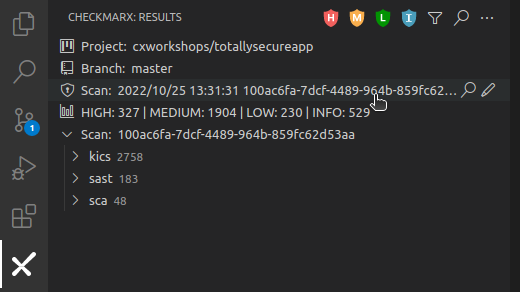
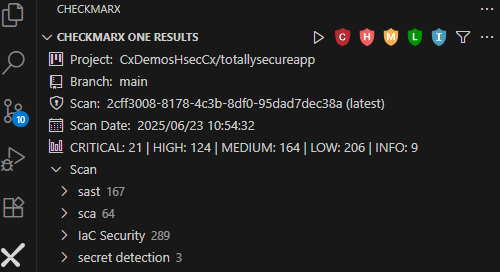
Lab-2 Refactored

diff --git a/lab1_setup/index.md b/lab1_setup/index.md
@@ -48,68 +48,79 @@ Once VS Code is installed, we need to install the Checkmarx plugin. The Visual S
 
 ## Configure the Checkmarx Plugin
 
-1. In the VS Code console, click on the Checkmarx extension icon and then click on the Open settings button.  
+1. In the VS Code console, click on the Checkmarx extension icon and then click on the Open settings button.  
    The Checkmarx Settings form opens.  
    ![Configure Checkmarx Plugin](./assets/images/cx_plugin_config.png "Configure Checkmarx Plugin")
 
+2. First you will need to authenticate the plugin by clicking the **Authentication** link in box 1.  
+   Once you click that, choose your method below to see the corresponding settings:
 
-    <!-- force break between list items -->
-    {% raw %}
-    <script>
-    function updateAuthImage() {
-        const sel = document.getElementById("authSelect").value;
-        document.getElementById("authImage").src =
-        "{{ \"/lab1_setup/assets/images/\" | relative_url }}" + sel + ".png";
-
-        document.getElementById("oauthText").style.display =
-        sel === "plugin_oauth_option" ? "block" : "none";
-        document.getElementById("apiKeyText").style.display =
-        sel === "plugin_api_auth_option" ? "block" : "none";
-    }
-    </script>
-    {% endraw %}
-    <!-- force break between list items -->
+   {: .note }
+   The preference for this workshop would be to use the Oauth authentication method. 
 
 
-2. First you will need to authenticate the plugin by clicking the **Authentication** link in box 1.  
-   Once you click that, choose your method below to see the corresponding settings screenshot:
+   <style>
+   .auth-tabs {
+     margin: 20px 0;
+   }
+   .auth-tabs input[type="radio"] {
+     display: none;
+   }
+   .auth-tabs label {
+     display: inline-block;
+     padding: 10px 20px;
+     background: #f0f0f0;
+     border: 1px solid #ddd;
+     cursor: pointer;
+     margin-right: 5px;
+   }
+   .auth-tabs label:hover {
+     background: #e0e0e0;
+   }
+   .auth-tabs input[type="radio"]:checked + label {
+     background: #007acc;
+     color: white;
+   }
+   .auth-content {
+     display: none;
+     padding: 20px;
+     border: 1px solid #ddd;
+     margin-top: 10px;
+     clear: both;
+   }
+   .auth-tabs #oauth-tab:checked ~ .oauth-content,
+   .auth-tabs #apikey-tab:checked ~ .apikey-content {
+     display: block;
+   }
+   </style>
 
-   <div>
-     <strong>Authentication Method:</strong><br>
-     <select id="authSelect" onchange="updateAuthImage()">
-       <option value="plugin_oauth_option">OAuth</option>
-       <option value="plugin_api_auth_option">API Key</option>
-     </select>
-     <br><br>
-
-     <img
-       id="authImage"
-       src="{{ "/lab1_setup/assets/images/plugin_oauth_option.png" | relative_url }}"
-       alt="Auth Method"
-       width="600"
-     />
-
-     <!-- Paragraphs shown conditionally -->
-     <div id="oauthText">
+   <div class="auth-tabs">
+     <input type="radio" id="oauth-tab" name="auth-method" checked>
+     <label for="oauth-tab">OAuth Authentication</label>
+     
+     <input type="radio" id="apikey-tab" name="auth-method">
+     <label for="apikey-tab">API Key Authentication</label>
+     
+     <div class="auth-content oauth-content">
+       <img src="./assets/images/plugin_oauth_option.png" alt="OAuth Authentication" width="600">
        <p>
-         The base URL for this lab will be: <code>https://us.ast.checkmarx.net</code>.  
+         The base URL for this lab will be: <code>https://us.ast.checkmarx.net</code>.<br>
          The Tenant Name will be delivered in the lab.
        </p>
      </div>
 
-     <div id="apiKeyText" style="display: none;">
+     <div class="auth-content apikey-content">
+       <img src="./assets/images/plugin_api_auth_option.png" alt="API Key Authentication" width="600">
        <p>
-         To use the API Key option, the instructions can be found at  
-         <a href="https://docs.checkmarx.com/en/34965-188712-creating-api-keys.html" target="_blank">
-           Generating a Checkmarx API Key
-         </a>.
+         To use the API Key option, the instructions can be found at 
+         <a href="https://docs.checkmarx.com/en/34965-188712-creating-api-keys.html" target="_blank">Generating a Checkmarx API Key</a>.
        </p>
      </div>
    </div>
 
-    
+  
 
-3. In the Checkmarx AST plugin section, enter the following details:
+3. Now that you have authenticated, in the Checkmarx AST plugin section, enter the following details:
 
 
     |         Item                          |          Value                |
@@ -121,7 +132,10 @@ Once VS Code is installed, we need to install the Checkmarx plugin. The Visual S
     | Checkmarx Security Champion: Model  | __Optional:__ Choose a supported model                 |
     | Checkmarx Security Champion: Key    | __Optional:__ Utilize a GPT API-KEY from your organization               |
 
-4. Once entered, the Checkmarx plugin will authenticate to the Checkmarx One tenant
+    {: .note }
+    The AI Features may be disabled for your specific workshop due to organizational policy. 
+
+4. Once entered, you have configured the plugin
 
 5. Close the Plugin Settings Screen
 
@@ -132,7 +146,7 @@ Once VS Code is installed, we need to install the Checkmarx plugin. The Visual S
     ![Select Project](./assets/images/cx_select_project.png "Select the Project")
 
     {: .note }
-    > Since Checkmarx plugin v2.0.11 release, only the AST/One API Key is required to connect the plugin to a Checkmarx One tenant.  If you see a 404 error within VSCode when attempting to connect to a project, it may be because environment variables are overriding the Uri/tenant names from the API key (cx_base_auth_uri, cx_base_uri, cx_tenant).  These variables are set if you've ever connected to Checkmarx One via the CLI. This can be fixed by deleting the checkmarxcli.yaml file if it exists on your machine.
+    > Since Checkmarx plugin v2.34.0 release, only the AST/One API Key or Ouath is required to connect the plugin to a Checkmarx One tenant.  If you see a 404 error within VSCode when attempting to connect to a project while using the API Key option, it may be because environment variables are overriding the Uri/tenant names from the API key (cx_base_auth_uri, cx_base_uri, cx_tenant).  These variables are set if you've ever connected to Checkmarx One via the CLI. This can be fixed by deleting the checkmarxcli.yaml file if it exists on your machine.
     >
     > For Mac OSX and Linux, this file can be found at ~/.checkmarx/checkmarxcli.yaml
     >
@@ -145,6 +159,9 @@ Once VS Code is installed, we need to install the Checkmarx plugin. The Visual S
 3. The Checkmarx Plugin is now configured and you should see scan results appear in the left pane
 
     ![Configuration Finished](./assets/images/cx_scan_results.png "Configuration Finished")
+
+    {: .note }
+    Note that right below description there is the option to go to __Codebashing__. The CheckmarxOne just in time training platform.
 
 
 ## Clone the project to your local machine
@@ -197,3 +214,4 @@ Prior to installing Docker Desktop on your local machine, ensure you adhere to [
 - The Checkmarx One VS Code plugin can be connected to a Checkmarx One instance by configuring one field (the API Key)
 - Checkmarx Scan results can be reviewed all within the IDE
 - Docker is required for IaC/KICS autoremediation within VS Code
+

diff --git a/lab2_sast/index.md b/lab2_sast/index.md
@@ -48,10 +48,10 @@ Sure, speed is important, but you can think of speed-focused SAST scans as this 
 
     ![SAST Filter](./assets/images/sast_filter.png "SAST Filter")
 
-3. Expand the __sast > HIGH__ menu to review the SAST scan results
+3. Expand the __sast > Critical__ menu to review the SAST scan results
 4. Select the __SQL Injection (/SQLInjectionController.java:30)__ result
 
-    ![SAST High](./assets/images/sast_high.png "SAST High")
+    ![SAST High](./assets/images/sast_critical.png "SAST Critical")
 
 5. A pane will open with VS Code to the right, which provides a detailed description of the identified vulnerability along with the attack vector.
 
@@ -61,11 +61,14 @@ Sure, speed is important, but you can think of speed-focused SAST scans as this 
 
     ![SQL Injection Best Fix Location](./assets/images/sqli_bfl.png "SQL Injection Best Fix Location")
 
-7. Reviewing the code, we can see within the result that we're taking direct input of a name and just trimming it and checking if it's blank, otherwise we pass on the input to be later executed as part of a SQL query, which could result in a SQL injection attack. Click on __Learn More__ in the far right pane to see a description of the risk in greater detail:
+7. Reviewing the code, we can see within the result that we're taking direct input of a name and just trimming it and checking if it's blank, otherwise we pass on the input to be later executed as part of a SQL query, which could result in a SQL injection attack. Click on __Description__ in the far right pane to see a description of the risk in greater detail:
+
+    {: .note } 
+    Note that right below description there is the option to go to __Codebashing__. The CheckmarxOne just in time training platform. 
 
     ![SQL Injection Learn More](./assets/images/sqli_learnmore.png "SQL Injection Learn More")
 
-8. Click on Code Samples to see an example of how to implement a sanitizer within the code to mitigate the SQL Injection vulnerability
+8. Click on __Remediation Excamples__ to see an example of how to implement a sanitizer within the code to mitigate the SQL Injection vulnerability
 
     ![SQL Injection Code Sample](./assets/images/sqli_code_sample.png "SQL Injection Code Sample")
 
@@ -75,7 +78,7 @@ While Checkmarx SAST can identify vulnerabilities in source code by validating t
 
 1. Select any one of the __Reflected XSS All Clients__ results.
 
-2. In the right pane, change the second drop down from __To Verify__ to __Not Exploitable__ and enter a comment, such as
+2. In the right pane, change the second drop down from __To Verify__ to __Proposed Not Exploitable__ and enter a comment, such as
 
         We have a validator in our code to ensure that this variable will only include known inputs.
 
@@ -85,7 +88,7 @@ While Checkmarx SAST can identify vulnerabilities in source code by validating t
 
 4. The result will now disappear from the SAST High results.  If we want to review the result again, we can select the filter icon, and de-select all options other than __"Not Exploitable"__
     
-    ![Not Exploitable](./assets/images/not_exploitable.png "Not Exploitable")
+    ![Not Exploitable](./assets/images/proposed_not_exploitable.png "Not Exploitable")
 
 
 
